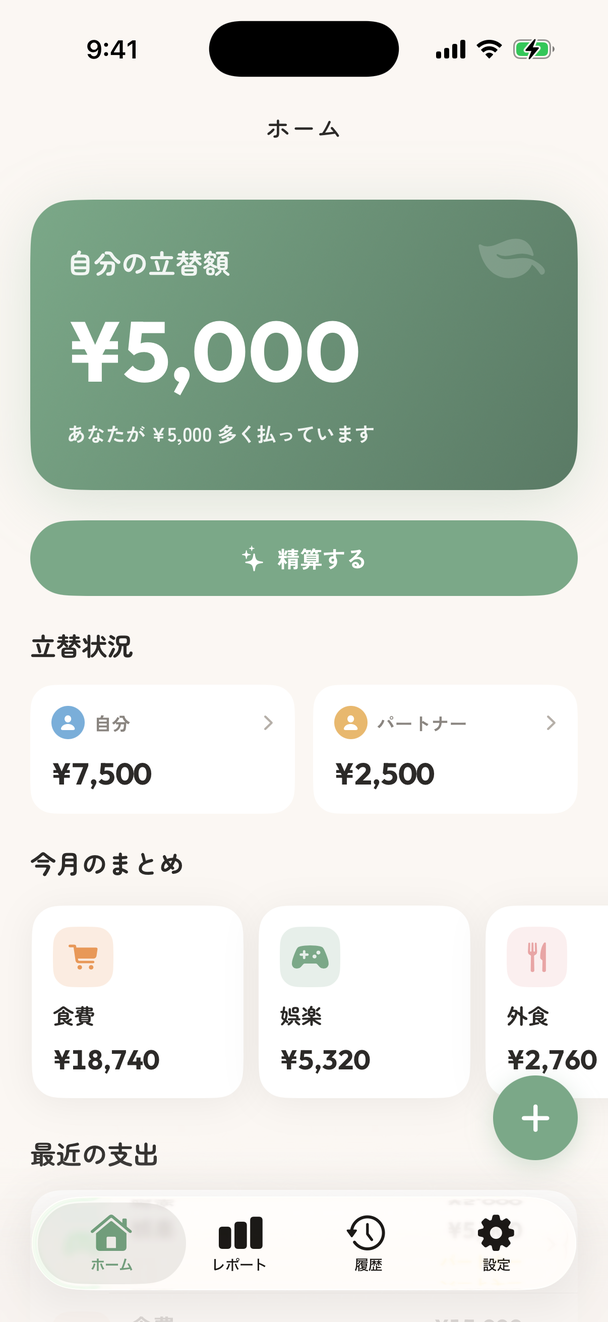
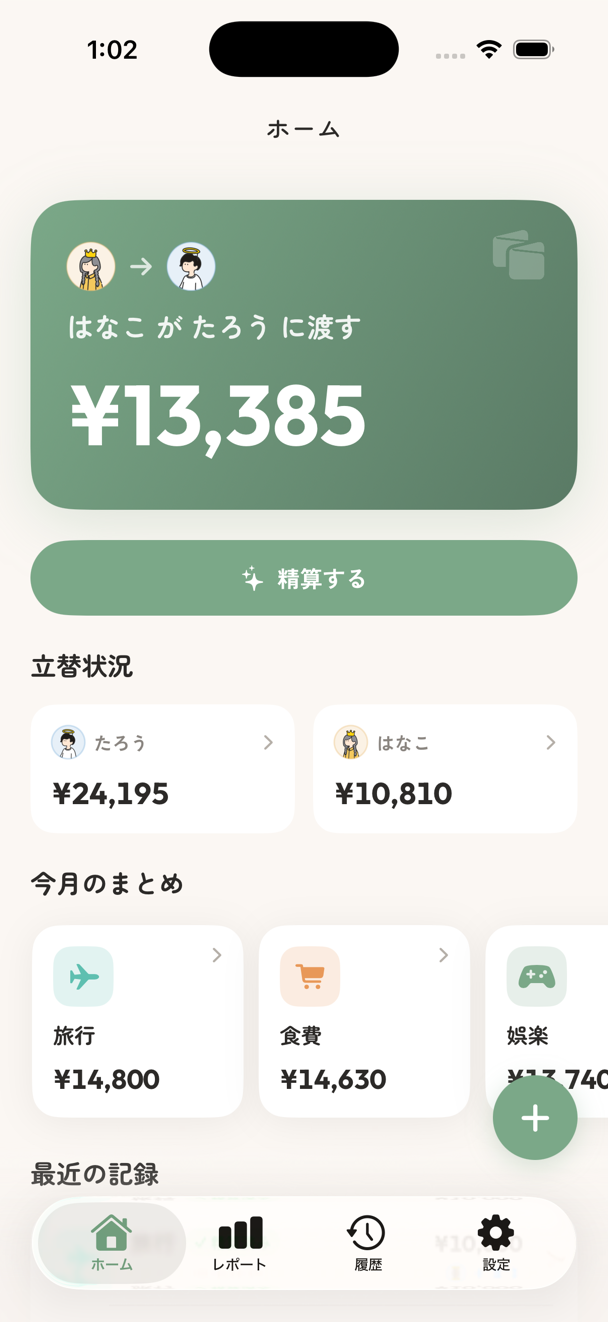
docs: 規約とポリシーを実装に合わせ、画面写真を現行UIに差し替える
利用規約
- レシートの読み取りを無料プランからプレミアムへ移す
- プレミアムの一覧に「AIに相談」と「CSV書き出し」を足す

プライバシーポリシー
- レシート画像は「レシートの写真を添付」を有効にしたときだけ保存される
- CSV と AI 相談で、本人の操作により記録がアプリの外へ出ることを書く

画面写真
- ホームの残高カードと、支出の追加画面の負担バーが作り替わっている

diff --git a/privacy.html b/privacy.html
@@ -38,7 +38,7 @@ a.doc{color:var(--matcha)}
 </header>
 
 <main style="max-width:760px;margin:0 auto;padding:48px 24px 80px">
-  <p style="font-size:12.5px;color:var(--sub);margin:0 0 10px">最終更新日:2026年8月16日</p>
+  <p style="font-size:12.5px;color:var(--sub);margin:0 0 10px">最終更新日:2026年8月17日</p>
   <h1 style="font-family:'Zen Maru Gothic',sans-serif;font-weight:900;font-size:clamp(26px,4vw,34px);margin:0 0 8px;line-height:1.5">プライバシーポリシー</h1>
   <p style="font-size:14.5px;line-height:2;color:var(--sub);margin:0 0 36px;text-wrap:pretty">「とんとん」(以下「本アプリ」)は、個人開発者 koachan(以下「開発者」)が提供するiOSアプリケーションです。本プライバシーポリシーは、本アプリにおける個人情報の取り扱いについて説明します。</p>
 
@@ -56,7 +56,7 @@ a.doc{color:var(--matcha)}
       <p class="doc">本アプリに入力された以下のデータを保存します。</p>
       <ul class="doc">
         <li>支出の金額、カテゴリ、メモ、日付</li>
-        <li>レシート画像(OCR機能で撮影した場合)</li>
+        <li>レシート画像(読み取り画面で「レシートの写真を添付」を有効にした場合のみ。撮影・選択しただけでは保存されません)</li>
         <li>固定費の設定情報</li>
         <li>予算の設定情報(カテゴリ別の月次予算)</li>
         <li>精算履歴</li>
@@ -93,6 +93,7 @@ a.doc{color:var(--matcha)}
         <li>サブスクリプション状態の管理</li>
         <li>プッシュ通知の配信</li>
         <li>レシート読み取り精度の改善(1-4 でお送りいただいた場合)</li>
+        <li>お客様の操作によるデータの書き出し(CSV・AIに相談)</li>
       </ul>
     </section>
     <section>
@@ -102,6 +103,7 @@ a.doc{color:var(--matcha)}
         <li><strong>パートナーとの共有</strong>: クラウド同期機能を利用してペアリングした相手に対し、支出データが共有されます。これはお客様の同意に基づくものです。</li>
         <li><strong>法令に基づく場合</strong>: 法律上の義務に従い、開示が必要な場合。</li>
       </ul>
+      <p class="doc" style="margin-top:8px">なお、「CSVで書き出す」やレポートの「AIに相談」を実行された場合、記録の内容はお客様ご自身の操作でアプリの外(共有先のアプリや、ChatGPT等のAIサービス)へ渡ります。開発者がこれらのサービスへデータを送ることはありません。「AIに相談」では渡すテキストを送る前に画面でご確認いただけます(パートナーの記録も含まれますが、名前は伏せられます)。持ち出した先での取り扱いは、そのサービスの規約・ポリシーに従います。</p>
     </section>
     <section>
       <h2 class="doc"><span></span>4. データの保存</h2>

diff --git a/terms.html b/terms.html
@@ -38,7 +38,7 @@ a.doc{color:var(--matcha)}
 </header>
 
 <main style="max-width:760px;margin:0 auto;padding:48px 24px 80px">
-  <p style="font-size:12.5px;color:var(--sub);margin:0 0 10px">最終更新日:2026年8月16日</p>
+  <p style="font-size:12.5px;color:var(--sub);margin:0 0 10px">最終更新日:2026年8月17日</p>
   <h1 style="font-family:'Zen Maru Gothic',sans-serif;font-weight:900;font-size:clamp(26px,4vw,34px);margin:0 0 8px;line-height:1.5">利用規約</h1>
   <p style="font-size:14.5px;line-height:2;color:var(--sub);margin:0 0 36px;text-wrap:pretty">本利用規約(以下「本規約」)は、個人開発者 koachan(以下「開発者」)が提供するiOSアプリ「とんとん」(以下「本アプリ」)の利用条件を定めるものです。本アプリをご利用いただく際は、本規約に同意いただいたものとみなします。</p>
 
@@ -55,17 +55,19 @@ a.doc{color:var(--matcha)}
         <li>基本的な精算機能</li>
         <li>カテゴリ別レポート</li>
         <li>履歴のカレンダー表示・絞り込み</li>
-        <li>レシートの読み取り(撮影または写真から金額・店名・日付を自動入力)</li>
         <li>クラウド同期</li>
         <li>広告が表示されます</li>
       </ul>
       <h3 class="doc">2-2. プレミアムプラン(有料)</h3>
       <ul class="doc">
         <li>無制限の支出記録</li>
+        <li>レシートの読み取り(撮影または写真から金額・店名・日付を自動入力)</li>
         <li>レシート写真の添付・保存(支出の詳細からあとで見返せます)</li>
         <li>ウィジェット機能</li>
         <li>固定費の自動登録</li>
         <li>予算管理機能(カテゴリ別の月次予算設定)</li>
+        <li>記録をAIに相談(ChatGPT等に貼り付けられるテキストの作成。アプリがAIへ送信することはありません)</li>
+        <li>記録のCSV書き出し</li>
         <li>カスタムカテゴリの作成</li>
         <li>プロフィールアイコンの着せ替え</li>
         <li>アプリアイコンの変更</li>
